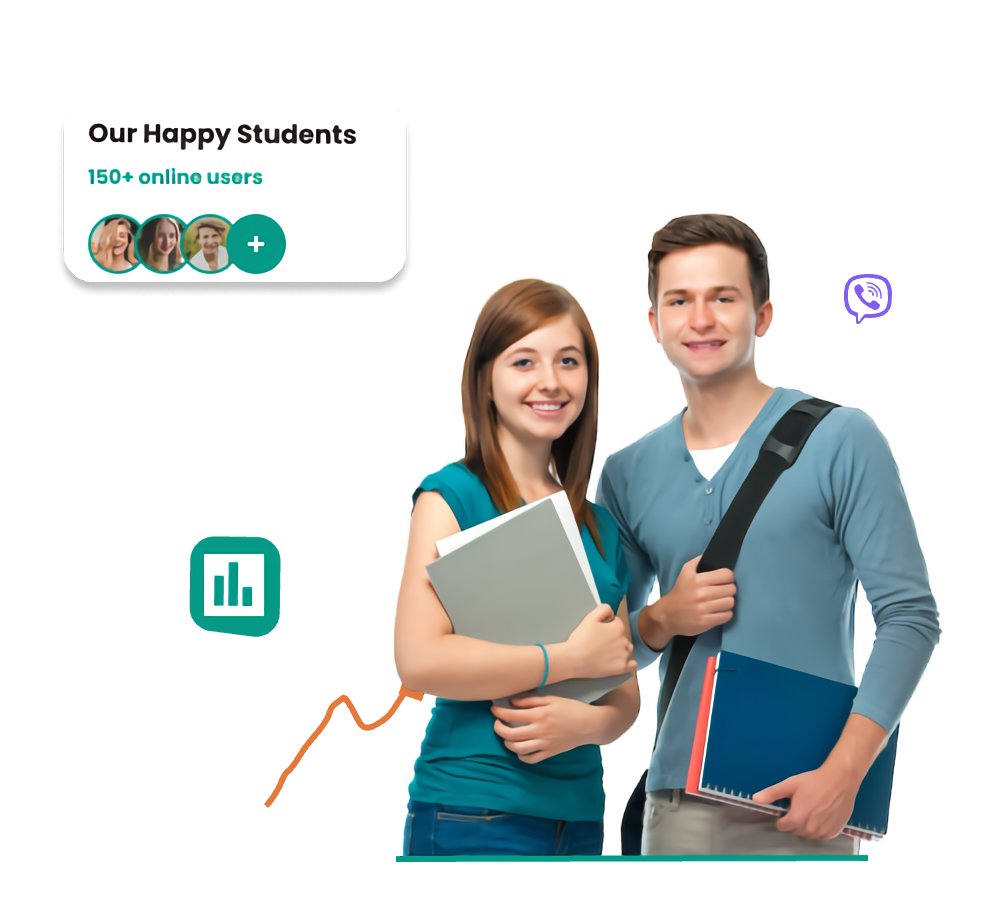
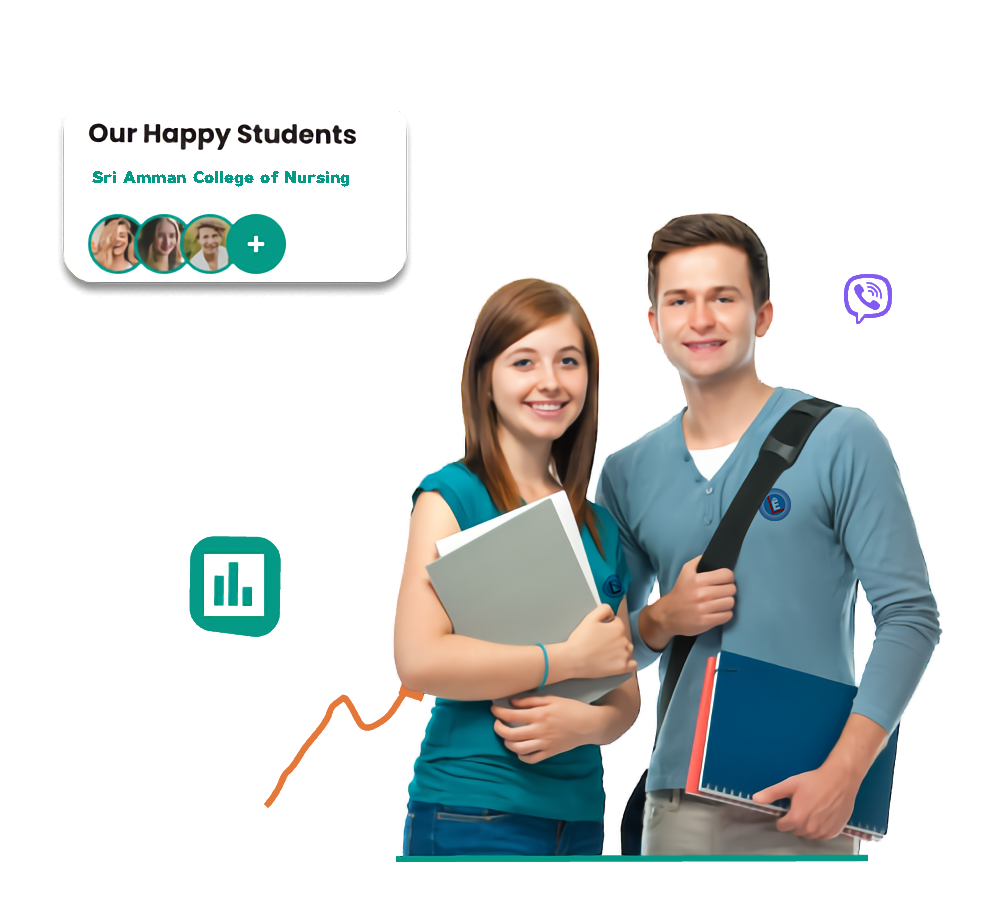
Newest Commit

diff --git a/src/components/container/Home.jsx b/src/components/container/Home.jsx
@@ -1,17 +1,24 @@
 import React from 'react'
 import hero from "../../images/bannerimg.png"
 import {logos} from "../../Data"
+import {motion} from "framer-motion"
 
 const Home = () => {
   return (
     <div className='section' id='home'>
       <div className=' md:flex items-center justify-center'>
         <div>
-          <div className=' font-bold text-sm text-Teal mb-4'>SRI AMMAN COLLEGE OF NURSING</div>
-          <div className=' sm:text-[2.5rem] text-[1.825rem] font-bold'>
-            Lorem ipsum<br /> Lorem ipsum dolor sit<br /> Lorem, ipsum dolor.
-          </div>
-          <p className='text-sm leading-7 text-gray max-w-sm'>Lorem ipsum dolor, sit amet consectetur adipisicing elit. Omnis labore odit sequi voluptas, libero officia error doloribus impedit est consequatur velit aliquid maiores non tempore.</p>
+          <motion.div initial={{ opacity: 0, clipPath: 'inset(0 100% 0 0)' }} 
+      animate={{ opacity: 1, clipPath: 'inset(0 0 0 0)' }} 
+      transition={{ duration: 2, ease: "easeInOut" }}   className=' font-bold text-sm text-Teal mb-4'>SRI AMMAN COLLEGE OF NURSING</motion.div>
+          <motion.div initial={{ opacity: 0, clipPath: 'inset(0 100% 0 0)' }} 
+      animate={{ opacity: 1, clipPath: 'inset(0 0 0 0)' }} 
+      transition={{ duration: 2, ease: "easeInOut" }}   className=' sm:text-[2.5rem] text-[1.825rem] font-bold'>
+            Welcome To<br /> Sri Amman College of Nursing<br /> 
+          </motion.div>
+          <motion.p initial={{ opacity: 0, clipPath: 'inset(0 100% 0 0)' }} 
+      animate={{ opacity: 1, clipPath: 'inset(0 0 0 0)' }} 
+      transition={{ duration: 2, ease: "easeInOut" }}  className='text-sm leading-7 text-gray max-w-sm'>Lorem ipsum dolor, sit amet consectetur adipisicing elit. Omnis labore odit sequi voluptas, libero officia error doloribus impedit est consequatur velit aliquid maiores non tempore.</motion.p>
           <div className='mt-6'>
             <button className='px-6 py-3 font-bold text-white bg-Teal  rounded-lg mr-4 text-sm'>Get Started</button>
             <button className=' px-6 py-3 font-bold border border-solid border-gray rounded-lg text-sm'>Discover</button>
@@ -22,9 +29,9 @@ const Home = () => {
         </div>
       </div>
       <div>
-        <p className=' text-center text-xl'>We Collaborate with<span className=' text-Teal'>100+ leading universities and companies</span></p>
+        <p className=' text-center text-xl'>Launch your nursing career<span className=' text-Teal'> with our comprehensive B.Sc. Nursing program.</span></p>
         
-        <div className=' flex items-center justify-center flex-wrap gap-8 p-2'>
+        {/* <div className=' flex items-center justify-center flex-wrap gap-8 p-2'>
           {logos.map((logo, index) => {
             return (
               <div className=" w-24" key={index}>
@@ -32,7 +39,7 @@ const Home = () => {
               </div>
             )
           })}
-        </div>
+        </div> */}
       </div>
     </div>
   )

diff --git a/src/components/container/Contact/Contact.jsx b/src/components/container/Contact/Contact.jsx
@@ -1,11 +1,18 @@
 import React from 'react'
-import { motion } from "framer-motion"
+import { motion, useInView } from "framer-motion"
+import { useRef } from 'react';
 import { FaPhoneAlt } from "react-icons/fa";
 
 const Contact = () => {
+  const ref = useRef(null);
+  const inView = useInView(ref, { once: true });
+
   return (
     <div className='section' id='contact'>
-      <div className=' text-center max-w-[600px] mx-auto mb-10'>
+      <motion.div ref={ref}
+      initial={{ opacity: 0, clipPath: 'inset(0 100% 0 0)' }} 
+      animate={inView ? { opacity: 1, clipPath: 'inset(0 0 0 0)' } : {}} 
+      transition={{ duration: 2, ease: [0.42, 0, 0.58, 1] }}   className=' text-center max-w-[600px] mx-auto mb-10'>
         <div className=' sm:text-3xl text-2xl font-bold mb-5'>Subscribe <span className=''>Newsletter</span></div>
         <p className=' text-sm leading-7 text-gray'>Lorem ipsum dolor sit amet consectetur adipisicing elit. Vero fuga nihil dolorum doloremque modi iste nisi, natus doloribus voluptatibus nulla a reprehenderit, vitae consequatur! Error illo dicta explicabo quia repellendus! Lorem ipsum dolor sit amet.</p>
         <motion.form className=' mt-5'
@@ -16,14 +23,23 @@ const Contact = () => {
           <input type="text" placeholder='Enter your Email Address' className=' sm:p-3 text-sm p-2 outline-none shadow-md sm:w-72 w-60' />
           <button className=' text-sm text-white bg-Teal sm:p-3 p-2 shadow-md font-medium'>Subscribe</button>
         </motion.form>
-      </div>
+      </motion.div>
 
       <div>
-      <div className='font-bold text-[1.5rem] text-center mb-5'>Contact for more details</div>
+      <motion.div ref={ref}
+      initial={{ opacity: 0, clipPath: 'inset(0 100% 0 0)' }} 
+      animate={inView ? { opacity: 1, clipPath: 'inset(0 0 0 0)' } : {}} 
+      transition={{ duration: 2, ease: [0.42, 0, 0.58, 1] }}  className='font-bold text-[1.5rem] text-center mb-5'>Contact for more details</motion.div>
       <div>
         <div className='flex items-center gap-4 justify-center'>
-          <div className='text-green-600'><FaPhoneAlt /></div>
-          <div className='text-center font-semibold text-teal-600'>+91 9746897234</div>
+          <motion.div ref={ref}
+      initial={{ opacity: 0, clipPath: 'inset(0 100% 0 0)' }} 
+      animate={inView ? { opacity: 1, clipPath: 'inset(0 0 0 0)' } : {}} 
+      transition={{ duration: 2, ease: [0.42, 0, 0.58, 1] }}  className='text-green-600'><FaPhoneAlt /></motion.div>
+          <motion.div ref={ref}
+      initial={{ opacity: 0, clipPath: 'inset(0 100% 0 0)' }} 
+      animate={inView ? { opacity: 1, clipPath: 'inset(0 0 0 0)' } : {}} 
+      transition={{ duration: 2, ease: [0.42, 0, 0.58, 1] }} className='text-center font-semibold text-teal-600'>+91 9746897234</motion.div>
         </div>
         <div className='flex justify-center mt-4'>
           <iframe 

diff --git a/src/components/container/Teacher.jsx b/src/components/container/Teacher.jsx
@@ -4,31 +4,42 @@ import teacher2 from "../../images/teacher2.png"
 import {accordions} from "../../Data"
 import Accordion from './Accordion'
 import MissionVission from './MissionVission'
+import { motion, useInView } from 'framer-motion';
+import { useRef } from 'react';
 
 const Teacher = () => {
+  const ref = useRef(null);
+  const inView = useInView(ref, { once: true });
+
   return (
     <div className='section' id='teacher'>
       <div className=' grid sm:grid-cols-2 place-items-center gap-8'>
-        <div className=' pl-5'>
+        <motion.div  ref={ref}
+      initial={{ opacity: 0, clipPath: 'inset(0 100% 0 0)' }} 
+      animate={inView ? { opacity: 1, clipPath: 'inset(0 0 0 0)' } : {}} 
+      transition={{ duration: 2, ease: [0.42, 0, 0.58, 1] }}  className=' pl-5'>
           <div className=' font-bold sm:text-[1.875rem]  text-[1.5rem] mb-5'>
             Lorem, ipsum<span className='text-Teal'> Lorem ipsum </span> <br /> Lorem, ipsum dolor.
           </div>
           <p className=' text-sm leading-7 text-gray mb-5'>Lorem ipsum dolor sit amet consectetur, adipisicing elit. Qui, ducimus quibusdam nulla, optio quam officiis dicta nemo obcaecati sed, dolorem hic blanditiis. Facere nostrum, neque eum saepe sint architecto cum.</p>
           <button className='py-3 px-6 bg-Teal text-sm rounded-lg text-white font-medium'>Lorem ipsum</button>
-        </div>
+        </motion.div>
         <div className=' p-4 md:w-3/4 sm:row-start-1'>
           <img src={teacher} alt="" />
         </div>
       </div>
 
       <div className=' grid sm:grid-cols-2 place-items-center gap-8'>
-        <div className=' pl-5'>
+        <motion.div  ref={ref}
+      initial={{ opacity: 0, clipPath: 'inset(0 100% 0 0)' }} 
+      animate={inView ? { opacity: 1, clipPath: 'inset(0 0 0 0)' } : {}} 
+      transition={{ duration: 2, ease: [0.42, 0, 0.58, 1] }}  className=' pl-5'>
           <div className=' font-bold sm:text-[1.875rem]  text-[1.5rem] mb-5'>
             Lorem <span className='text-Teal'>Lorem ipsum.</span> <br /> Lorem ipsum.
           </div>
           <p className=' text-sm leading-7 text-gray mb-5'>Lorem ipsum dolor sit amet consectetur, adipisicing elit. Qui, ducimus quibusdam nulla, optio quam officiis dicta nemo obcaecati sed, dolorem hic blanditiis. Facere nostrum, neque eum saepe sint architecto cum.</p>
           <button className='py-3 px-6 bg-Teal text-sm rounded-lg text-white font-medium'>Get Started</button>
-        </div>
+        </motion.div>
         <div className=' p-4 md:w-3/4 sm:row-start-1'>
           <img src={teacher2} alt="" />
         </div>

diff --git a/src/components/container/About.jsx b/src/components/container/About.jsx
@@ -1,18 +1,25 @@
 import React from 'react'
 import about from "../../images/About.jpg"
+import { motion, useInView } from 'framer-motion';
+import { useRef } from 'react';
 
 const About = () => {
+  const ref = useRef(null);
+  const inView = useInView(ref, { once: true });
   return (
     <div className='section' id='about'>
       <div className=' grid md:grid-cols-2 gap-8 place-items-center'>
         <div className=' border-[3px] border-solid border-Teal rounded-lg'>
           <img src={about} className=' p-4' alt="" />
         </div>
-        <div className=' font-bold sm:text-[1.875rem] text-[1.5rem] mb-5'>
-         Lorem, ipsum dolor.<br /> best <span className=' text-Teal'>Lorem ipsum dolor sit amet.</span>
+        <motion.div ref={ref}
+      initial={{ opacity: 0, clipPath: 'inset(0 100% 0 0)' }} 
+      animate={inView ? { opacity: 1, clipPath: 'inset(0 0 0 0)' } : {}} 
+      transition={{ duration: 2, ease: [0.42, 0, 0.58, 1] }}   className=' font-bold sm:text-[1.875rem] text-[1.5rem] mb-5'>
+         Why Choose.<br /> <span className=' text-Teal'>Sri Amman College of Nursing</span>
           <p className=' text-sm text-gray leading-7 font-medium mb-4'>Lorem ipsum dolor sit, amet consectetur adipisicing elit. Eum cupiditate consectetur, sint asperiores quam aut molestias optio soluta. Distinctio perspiciatis ipsa magnam enim cupiditate! Tenetur necessitatibus saepe distinctio laborum ipsam.</p>
           <button className='py-3 px-6 text-sm border border-solid border-gray rounded-lg font-bold'>Know More</button>
-        </div>
+        </motion.div>
       </div>
     </div>
   )

diff --git a/src/components/container/MissionVission.jsx b/src/components/container/MissionVission.jsx
@@ -1,10 +1,19 @@
 import React from 'react'
+import Chairman from "../../images/chairman.jpg"
+import { motion, useInView } from 'framer-motion';
+import { useRef } from 'react';
 
 
 const MissionVission = () => {
+  const ref = useRef(null);
+  const inView = useInView(ref, { once: true });
+
   return (
-    <div className=' p-10 pb-28'>
-      <div className=' mb-8'>
+    <div className=' p-10 pb-28 md:flex md:items-center justify-center gap-10'>
+      <motion.div   ref={ref}
+      initial={{ opacity: 0, clipPath: 'inset(0 100% 0 0)' }} 
+      animate={inView ? { opacity: 1, clipPath: 'inset(0 0 0 0)' } : {}} 
+      transition={{ duration: 2, ease: [0.42, 0, 0.58, 1] }}  className=' mb-8'>
         <div className='text-center font-bold text-[1.879rem] mb-10'>Mission & <span className=' text-Teal'>Vision</span></div>
         <div className=' '>
           <div className=' Misson-bg mb-10 shadow-md'>
@@ -23,10 +32,10 @@ const MissionVission = () => {
           </div>
         </div>
 
-      </div>
+      </motion.div  >
       <div className='  mx-auto text-center'>
         <div className='w-[200px] h-[200px] mx-auto rounded-lg shadow-[0_3px_10px_rgb(0,0,0,0.2)] mb-5'>
-          <img className='w-full h-full object-cover bg-top mb-2 rounded-lg' src="https://res.cloudinary.com/dqydgc2ky/image/upload/v1718616701/ChairmanOrg_svw8um.jpg" alt="" />
+          <img className='w-full h-full object-cover mb-2 rounded-lg' src={Chairman} alt="" />
         </div>
         <div className=' font-semibold'>Our Chairman</div>
         <div className=' font-bold text-Teal'>Mr.Pon Selvaraj</div>

diff --git a/src/components/container/Course/Course.jsx b/src/components/container/Course/Course.jsx
@@ -3,14 +3,23 @@ import { categories } from "../../../Data"
 import {courses} from "../../../Data"
 import Category from './Category'
 import Courses from './Courses'
+import { motion, useInView } from 'framer-motion';
+import { useRef } from 'react';
+
 
 const Course = () => {
+  const ref = useRef(null);
+  const inView = useInView(ref, { once: true });
+
   return (
     <div className='section' id='courses'>
-      <div className=' text-center'>
+      <motion.div ref={ref}
+      initial={{ opacity: 0, clipPath: 'inset(0 100% 0 0)' }} 
+      animate={inView ? { opacity: 1, clipPath: 'inset(0 0 0 0)' } : {}} 
+      transition={{ duration: 2, ease: [0.42, 0, 0.58, 1] }}   className=' text-center'>
         <div className=' sm:text-3xl text-2xl font-bold mb-5'>Our Top <span className='text-Teal'>Courses</span></div>
         <p className=' text-sm text-gray leading-7 max-w-[700px] mx-auto'>Lorem ipsum dolor sit amet consectetur adipisicing elit. Explicabo, illo consectetur error adipisci sint saepe laboriosam necessitatibus totam fugit libero officia tempore, quas, unde itaque animi omnis? Laborum, tenetur cumque! Lorem, ipsum dolor sit amet consectetur adipisicing elit. Necessitatibus, alias.</p>
-      </div>
+      </motion.div>
       <div className=' grid md:grid-cols-4 sm:grid-cols-2 mt-12 gap-8'>
             {categories.map(category => (
                 <Category key={category.id} icon={category.icon} category={category.category} />

diff --git a/index.html b/index.html
@@ -4,7 +4,8 @@
     <meta charset="UTF-8" />
     <!-- <link rel="icon" type="image/svg+xml" href="/vite.svg" /> -->
     <meta name="viewport" content="width=device-width, initial-scale=1.0" />
-    <title>SRI AMMAN COLLEGE OF NURSING</title>
+    <meta name="description" content="Welcome to Amman College of Nursing in Trichy. Learn more about our programs and admissions. Join Sri Amman College for a promising future in nursing.">
+    <title>Sri Amman College | Amman College | Amman College of Nursing | Amman College Trichy | Sri Amman College of Nursing Trichy</title>
   </head>
   <body>
     <div id="root"></div>

diff --git a/src/components/container/Course/Courses.jsx b/src/components/container/Course/Courses.jsx
@@ -1,6 +1,8 @@
 import React from 'react'
 import {AiOutlineUser, AiOutlineStar} from "react-icons/ai"
 
+
+
 const Courses = ({image,category,title,participants,rating,price}) => {
   return (
     <div>
